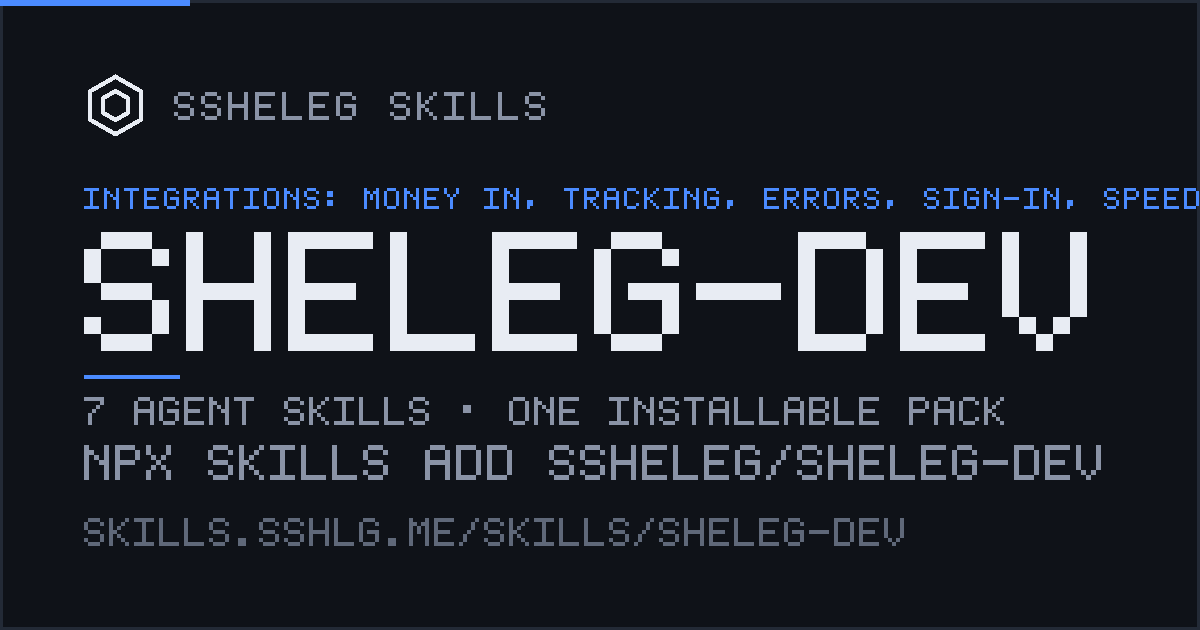
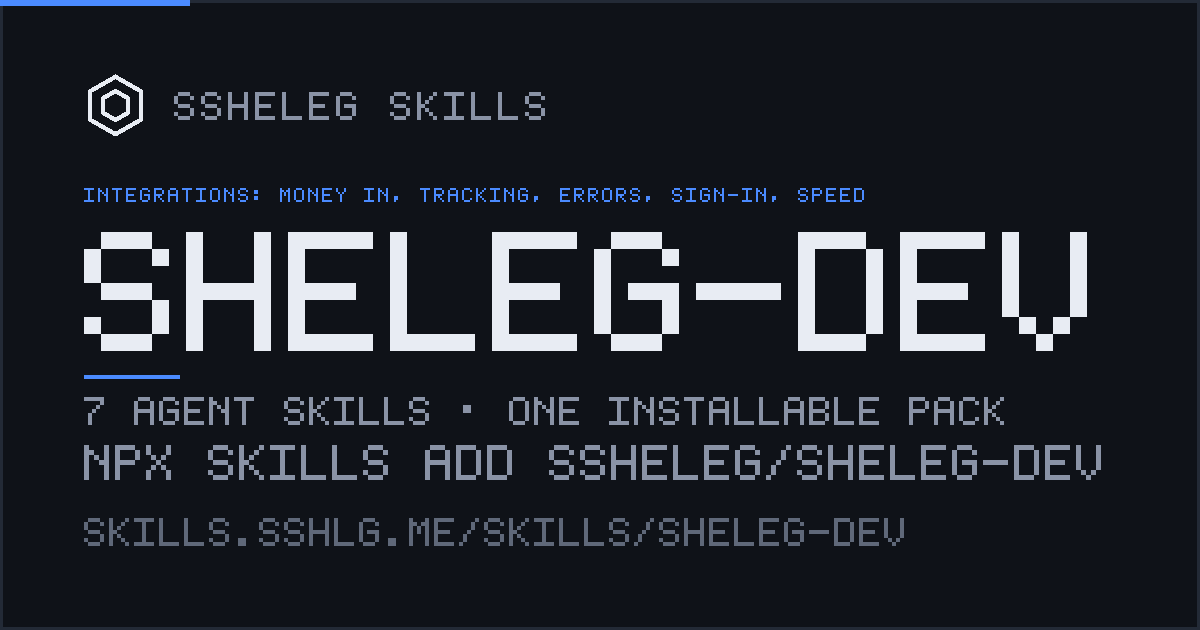
v0.11.5 — the card the umbrella renders (B-118) (#12)
The committed social preview is the umbrella's own render, byte for byte. The
pixels live here and are byte-checked from the umbrella, so only this
repository's own release can move them.

Gate: npm test rc=0.

Changed region(s): [[0.0617, 0.3016, 0.74, 0.3317], [0.7708, 0.3016, 0.8942, 0.3317], [0.925, 0.3016, 1.0, 0.3317]]

diff --git a/docs/evidence/verification.md b/docs/evidence/verification.md
@@ -23,7 +23,7 @@ actually prints. Both were watched refusing a plant; see the SD-05 block.
 
 ---
 
-## Shipped state — v0.11.4
+## Shipped state — v0.11.5
 
 **The first v0.8.0 tag failed its own release, and this is the record of it.** The notice
 `install.sh` gained in this version — that the manual gate does not travel with a skills
@@ -57,7 +57,7 @@ Seven skills ship: `ad-tracking`, `crypto-payments`, `error-tracking`,
 
 | REQ | Requirement | Verified by | Result | Status |
 |---|---|---|---|---|
-| 001 | The structural validator passes on the shipped tree | `python3 test/validate.py` | `OK: sheleg-dev structurally valid (26 checks, 7 skill(s), v0.11.4)` — and the check count is now the length of the registry, so adding a check moves it. It used to be `10 + len(skill_dirs)`: adding a **skill** moved the number and adding a check did not, and four rows of this file read it as evidence that a guard had been added. `check_ledger_quotes_the_validator_verdict` compares this quoted string against the line the run prints, so it cannot drift again | **verified** |
+| 001 | The structural validator passes on the shipped tree | `python3 test/validate.py` | `OK: sheleg-dev structurally valid (26 checks, 7 skill(s), v0.11.5)` — and the check count is now the length of the registry, so adding a check moves it. It used to be `10 + len(skill_dirs)`: adding a **skill** moved the number and adding a check did not, and four rows of this file read it as evidence that a guard had been added. `check_ledger_quotes_the_validator_verdict` compares this quoted string against the line the run prints, so it cannot drift again | **verified** |
 | 002 | Every guard has been watched failing against a planted defect | CI run `32293489020` at `6f66255`, step-level conclusions of every `Negative self-test` step | **28 of 28 `success`**, 39 of 39 steps `success`, 0 failed steps in the run. This retires the *"CI has not seen any of this"* limitation that SD-01 through SD-04 each recorded separately: the four blocks below all ran in that one run, against the tagged tree | **verified** |
 | 003 | Version is synchronised across every surface | read back from `package.json`, `.claude-plugin/marketplace.json`, `plugins/sheleg-dev/.claude-plugin/plugin.json`, the top `## vX.Y.Z` in `CHANGELOG.md` | all four → `0.7.0` | **verified** |
 | 056 | `error-tracking` meets the Agent Skills standard and the house canon | `python3 audit_skill.py plugins/sheleg-dev/skills/error-tracking --house` (make-skill 0.23.0) | `0 GAP, 14 PASS` — description 943/970 chars, body 242 lines / ~2777 tokens against a 500/4750 working limit, every relative link resolves | **verified** |

diff --git a/CHANGELOG.md b/CHANGELOG.md
@@ -1,3 +1,15 @@
+## v0.11.5 — the card is the umbrella's render, and the eyebrow stops painting past the canvas
+
+The committed social preview is now generated by the umbrella with the CORRECTED fit
+metric and copied here byte for byte. Nothing about this pack changed.
+
+**Why it was stale.** This member sat in `scripts/site.js`'s `LEGACY_FIT` set, so its card
+was rendered with the pre-correction metric and its eyebrow painted to x=1199 — over the
+padding box the fix exists to remove. A member's card pixels are committed here and
+byte-checked from the umbrella, so only this repository's own release can move them.
+
+Board: `B-118`.
+
 # Changelog
 
 All notable changes to this project are documented here.

diff --git a/SKILL-CARD.md b/SKILL-CARD.md
@@ -5,7 +5,7 @@
 | Field | Value |
 |---|---|
 | Pack | `sheleg-dev` |
-| Version | `0.11.4` |
+| Version | `0.11.5` |
 | Skills | `stripe-billing`, `crypto-payments`, `error-tracking`, `ad-tracking`, `google-signin`, `google-auth`, `frontend-performance` |
 | License | MIT |
 | Source | https://github.com/ssheleg/sheleg-dev |
